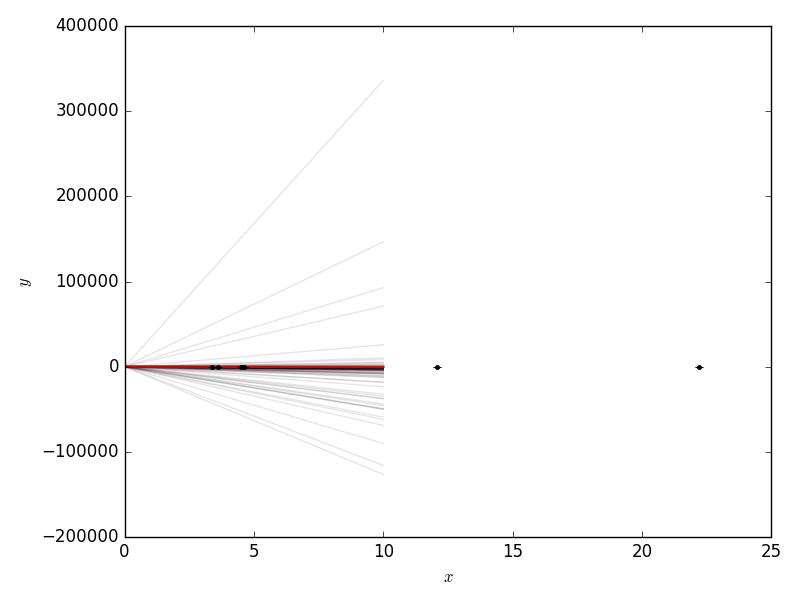
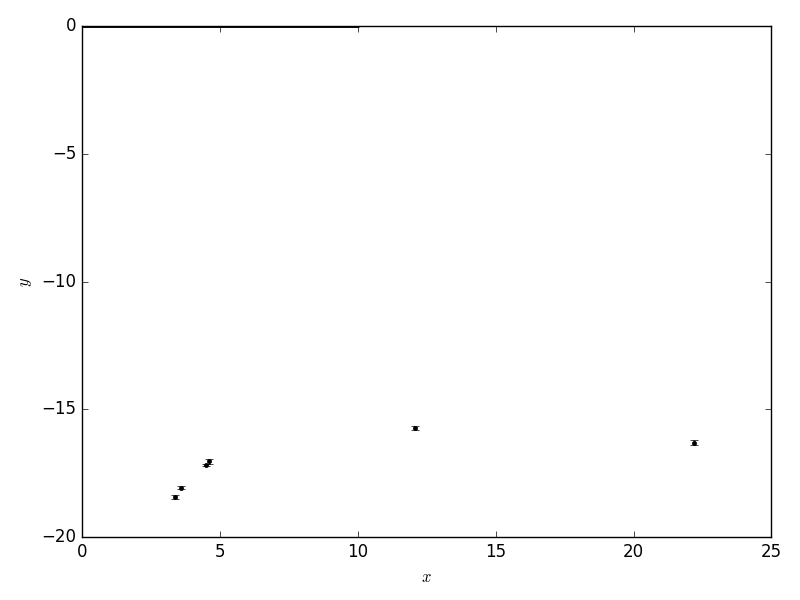
variable red

diff --git a/line0000.py b/line0000.py
@@ -102,39 +102,35 @@ sampler.run_mcmc(pos, 500, rstate0=np.random.get_state())
 print("Done.")
 
 pl.clf()
-fig, axes = pl.subplots(3, 1, sharex=True, figsize=(8, 9))
+fig, axes = pl.subplots(2, 1, sharex=True, figsize=(8, 9))
 axes[0].plot(sampler.chain[:, :, 0].T, color="k", alpha=0.4)
 axes[0].yaxis.set_major_locator(MaxNLocator(5))
-axes[0].axhline(m_true, color="#888888", lw=2)
-axes[0].set_ylabel("$m$")
+#axes[0].axhline(m_true, color="#888888", lw=2)
+axes[0].set_ylabel("$T$")
 
-axes[1].plot(sampler.chain[:, :, 1].T, color="k", alpha=0.4)
+axes[1].plot(np.exp(sampler.chain[:, :, 2]).T, color="k", alpha=0.4)
 axes[1].yaxis.set_major_locator(MaxNLocator(5))
-axes[1].axhline(b_true, color="#888888", lw=2)
-axes[1].set_ylabel("$b$")
-
-axes[2].plot(np.exp(sampler.chain[:, :, 2]).T, color="k", alpha=0.4)
-axes[2].yaxis.set_major_locator(MaxNLocator(5))
-axes[2].axhline(f_true, color="#888888", lw=2)
-axes[2].set_ylabel("$f$")
-axes[2].set_xlabel("step number")
+#axes[2].axhline(f_true, color="#888888", lw=2)
+axes[1].set_ylabel("$f$")
+axes[1].set_xlabel("step number")
 
 fig.tight_layout(h_pad=0.0)
 fig.savefig("line-time.png")
 
 # Make the triangle plot.
 burnin = 50
-samples = sampler.chain[:, burnin:, :].reshape((-1, ndim))
-
+samples = sampler.chain[:,burnin:, :].reshape((-1, 2))
+print(samples,"samples")
+"""
 fig = corner.corner(samples, labels=["$m$", "$b$", "$\ln\,f$"],
                       truths=[m_true, b_true, np.log(f_true)])
 fig.savefig("line-triangle.png")
-
+"""
 # Plot some samples onto the data.
 pl.figure()
-for a, T_ls, lnf in samples[np.random.randint(len(samples), size=100)]:
-    pl.plot(xl, (a/xl**5)*(1/((np.exp(b/(xl*T_ls[0]))-1))), color="k", alpha=0.1)
-pl.plot(xl, m_true*xl+b_true, color="r", lw=2, alpha=0.8)
+for T_ls, lnf in samples[np.random.randint(len(samples), size=100)]:
+    pl.plot(xl, (a/xl**5)*(1/((np.exp(b/(xl*T_ls))-1))), color="k", alpha=0.1)
+#pl.plot(xl, m_true*xl+b_true, color="r", lw=2, alpha=0.8)
 pl.errorbar(x, y, yerr=yerr, fmt=".k")
 pl.xlabel("$x$")
 pl.ylabel("$y$")
@@ -142,12 +138,12 @@ pl.tight_layout()
 pl.savefig("line-mcmc.png")
 
 # Compute the quantiles.
-samples[:, 2] = np.exp(samples[:, 2])
-m_mcmc, b_mcmc, f_mcmc = map(lambda v: (v[1], v[2]-v[1], v[1]-v[0]),
+samples[:, 1] = np.exp(samples[:, 1])
+T_mcmc, f_mcmc = map(lambda v: (v[1], v[2]-v[1], v[1]-v[0]),
                              zip(*np.percentile(samples, [16, 50, 84],
                                                 axis=0)))
+print(T_mcmc)
 print("""MCMC result:
-    m = {0[0]} +{0[1]} -{0[2]} (truth: {1})
-    b = {2[0]} +{2[1]} -{2[2]} (truth: {3})
-    f = {4[0]} +{4[1]} -{4[2]} (truth: {5})
-""".format(m_mcmc, m_true, b_mcmc, b_true, f_mcmc, f_true))
+    T = {0[0]} +{0[1]} -{0[2]}
+    f = {1[0]} +{1[1]} -{1[2]}
+""".format(T_mcmc, f_mcmc))
